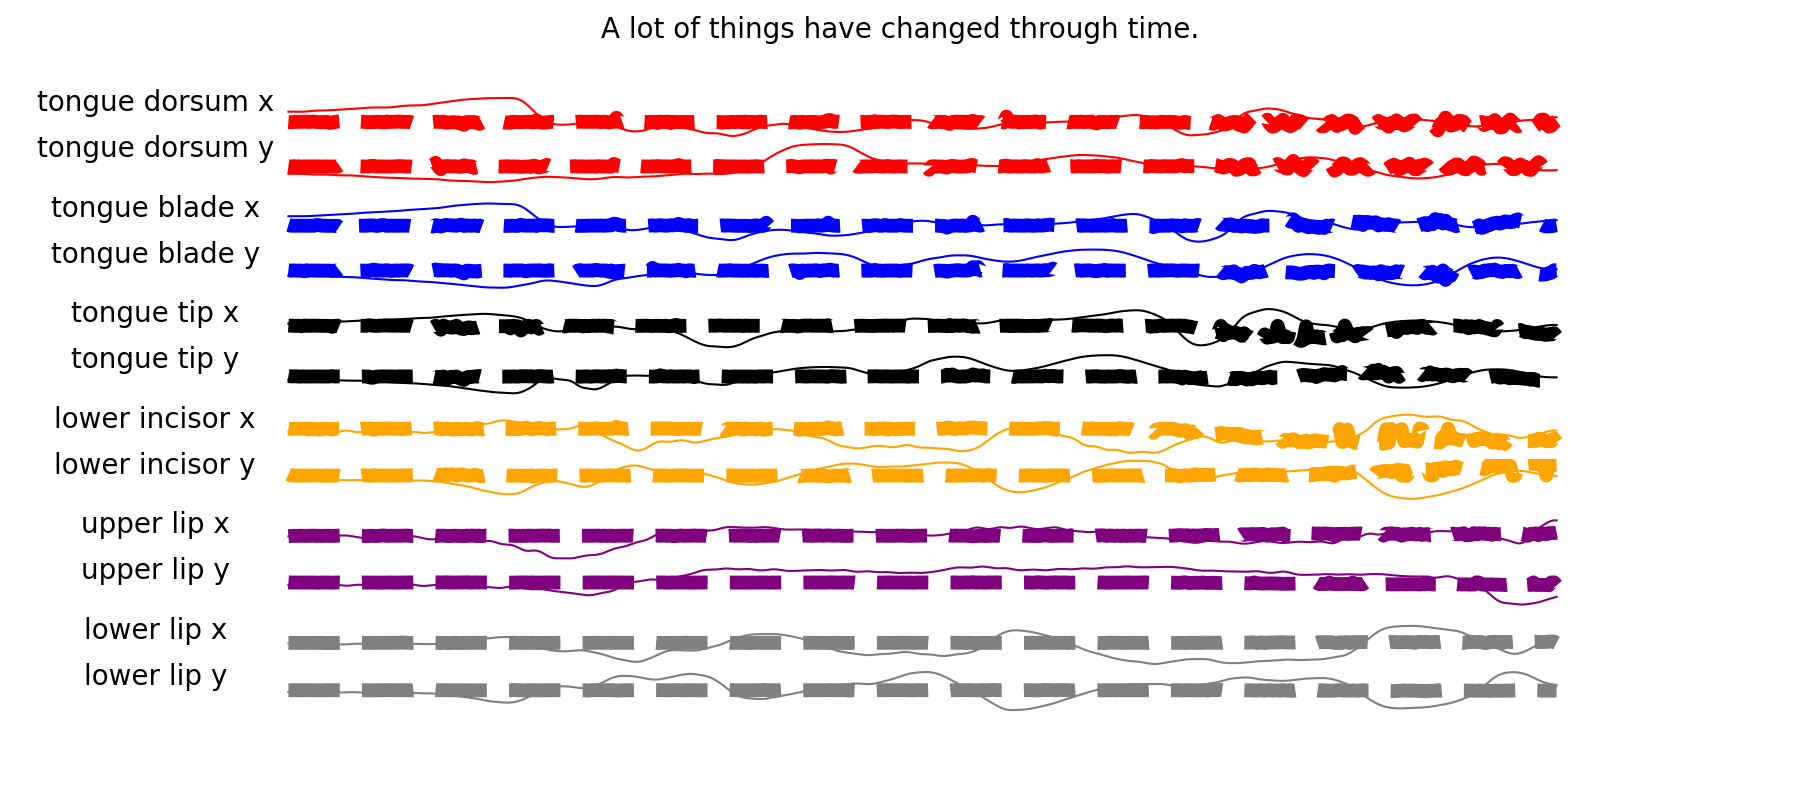
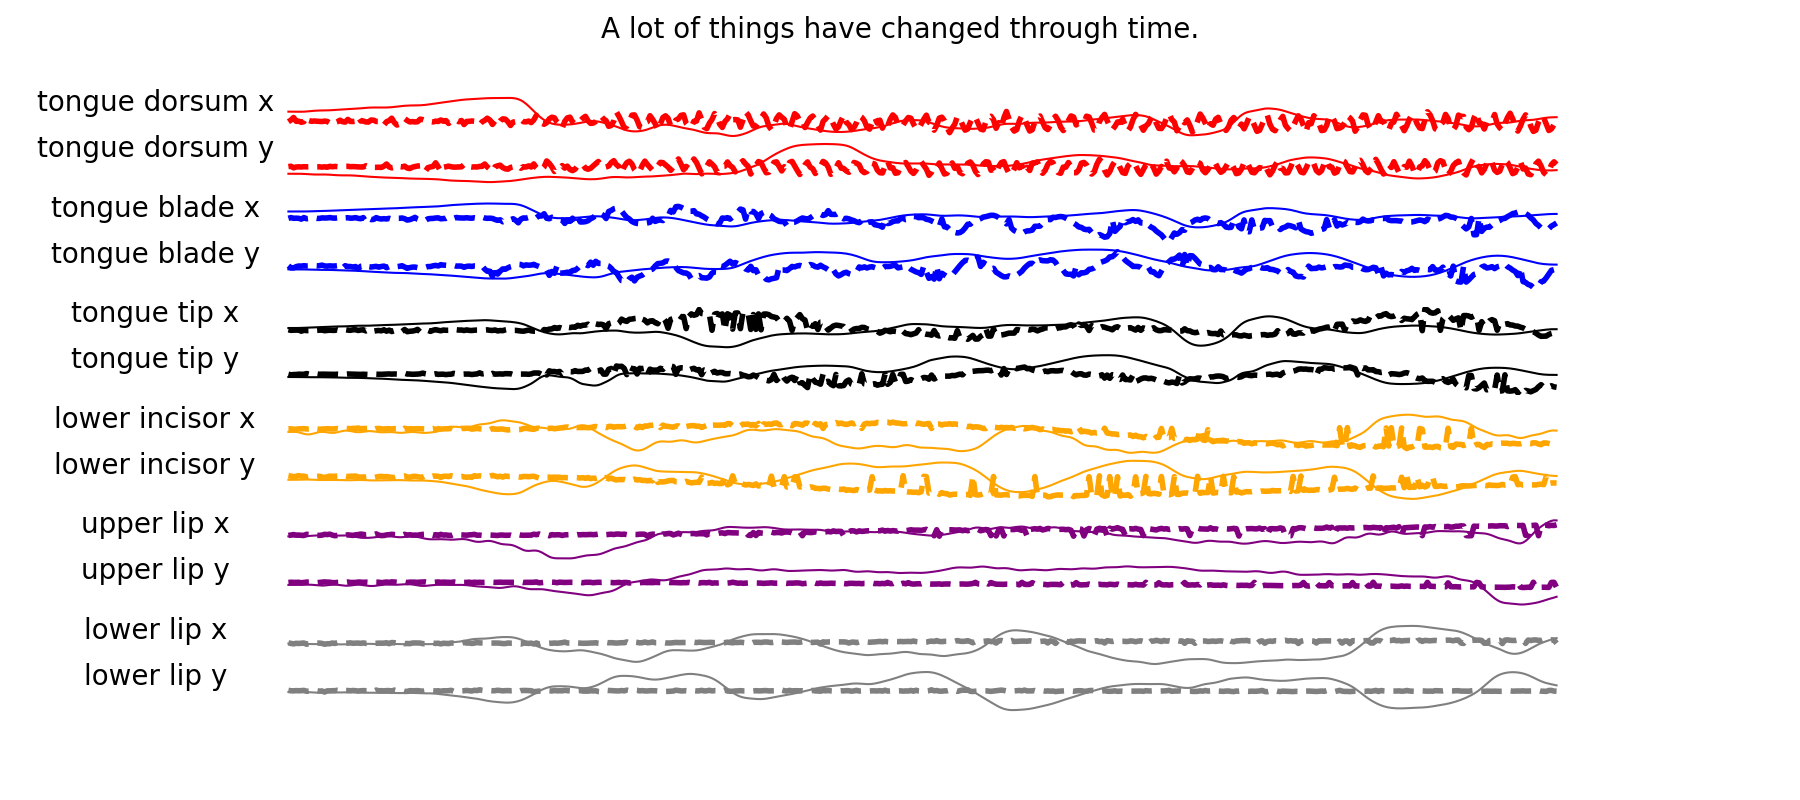
no down/up sampling is important for good reconstruction

diff --git a/src/models/ema_model.py b/src/models/ema_model.py
@@ -27,7 +27,7 @@ class Conv2dSubsampling(torch.nn.Module):
         super().__init__()
         self.conv = torch.nn.Sequential(
             torch.nn.Conv2d(1, odim, 3, 2),
-            torch.nn.ReLU(),
+            # torch.nn.ReLU(),
         )
         self.out = torch.nn.Sequential(
             torch.nn.Linear(odim * ((idim // 2 - 1)), odim),
@@ -68,7 +68,7 @@ class Conv2dUpsampling(torch.nn.Module):
         super().__init__()
         self.conv = torch.nn.Sequential(
             torch.nn.ConvTranspose2d(1, odim, 3, 2,0,1),
-            torch.nn.ReLU(),
+            # torch.nn.ReLU(),
         )
         self.out = torch.nn.Sequential(
             torch.nn.Linear(odim * ((idim - 1)*2+1+1+2), odim),
@@ -124,26 +124,30 @@ class EMA_Model(nn.Module):
         #shape of x is [B,A,T]
         time_steps = x.shape[2]
 
+
         x = x.permute(0, 2, 1)
-        z1 = self.conformer_encoder_layer1(x)  #out: [B,T,12]
-        z2 = self.conformer_encoder_layer2(z1) #out: [B,T,12]
-        z3, _ = self.subsampling_layer1(z2, None)       #out: [B,T//2,12]
+        z = self.conformer_encoder_layer1(x)  #out: [B,T,12]
+        z = self.conformer_encoder_layer2(z) #out: [B,T,12]
+        # z, _ = self.subsampling_layer1(z, None)       #out: [B,T//2,12]
 
-        z4 = self.conformer_encoder_layer3(z3) #out: [B,T//2,12]
-        z5, _ = self.subsampling_layer1(z4, None)       #out: [B,T//4,12]
+        z = self.conformer_encoder_layer3(z) #out: [B,T//2,12]
+        # z, _ = self.subsampling_layer1(z, None)       #out: [B,T//4,12]
 
-        z6 = self.conformer_decoder_layer1(z5) #out: [B, T//4, 12]
-        z7,_ = self.upsampling_layer1(z6, None)        #out: [B, T//2, 12]
+        z = self.conformer_decoder_layer1(z) #out: [B, T//4, 12]
+        # z,_ = self.upsampling_layer1(z, None)        #out: [B, T//2, 12]
 
-        z8 = self.conformer_decoder_layer2(z7) #out: [B, T//2, 12]
-        z9,_ = self.upsampling_layer2(z8, None)        #out: [B, T, 12]
+        z = self.conformer_decoder_layer2(z) #out: [B, T//2, 12]
+        # z,_ = self.upsampling_layer2(z, None)        #out: [B, T, 12]
 
-        z10 = self.conformer_decoder_layer3(z9)#out: [B, T, 12]
+        z = self.conformer_decoder_layer3(z)#out: [B, T, 12]
 
-        inp_hat = z10
+        inp_hat = z
 
 
         inp_hat = inp_hat[:, :time_steps, :]
+
+        # print(f"max of ema inp is {torch.max(x)}, min of ema inp is {torch.min(x)}")
+        # print(f"max of ema hat is {torch.max(inp_hat)}, min of ema hat is {torch.min(inp_hat)}")
         return x, inp_hat
 
     def loadParameters(self, path):

diff --git a/src/utils.py b/src/utils.py
@@ -310,9 +310,10 @@ def vis_kinematics_ema(model, **args):
 
     ema_ori, ema_hat = model(ema_data, None)
 
+
     ema_data_hat = ema_hat.cpu().detach().numpy()
 
-    draw_kinematics_ema(ema_data.cpu(), ema_data_hat, mode='kinematics', title=ema_id+'ori_rec', **args) 
+    draw_kinematics_ema(ema_ori.cpu(), ema_data_hat, mode='kinematics', title=ema_id+'ori_rec', **args) 
     
 def vis_kinematics_rtMRI(model, **args):
     ######################################
@@ -370,16 +371,11 @@ def draw_kinematics_ema(ema_data, ema_data_hat, mode, title, **args):
     
 
     ema_data = ema_data.squeeze(0)
-    if mode == 'kinematics':
-        ema_data_hat = ema_data_hat.squeeze(0)
+    ema_data_hat = ema_data_hat.squeeze(0)
     
     ema_id, wav_data, mel_data, text_trans = ema2info(**args)
     
-    ema_data = ema_data.T
-    #ema_data_hat = ema_data_hat.T
-    
-    print(ema_data.shape)
-    print(ema_data_hat.shape)
+    print(f"ema data shape is {ema_data.shape}, ema data hat shape is {ema_data_hat.shape}")
     
     x = np.arange(ema_data.shape[0])
 
@@ -393,11 +389,8 @@ def draw_kinematics_ema(ema_data, ema_data_hat, mode, title, **args):
         inner = gridspec.GridSpecFromSubplotSpec(2, 1, subplot_spec=outer[i], wspace=0.1, hspace=0.1)
         for j in range(2):
             ax = plt.Subplot(fig, inner[j])
-            _data = ema_data[:,i*2+j] #shape is (win_size,)
-            ax.plot(x, _data,c=colors[i], label='ori')
-            #ax.plot(x, _data,c=colors[i], label='ori', linewidth=10)
-            if mode == 'kinematics':
-                ax.plot(x, ema_data_hat[:,i*2+j],c=colors[i], label='rec', linestyle='dashed', linewidth=10)
+            ax.plot(x, ema_data[:,i*2+j],c=colors[i], label='ori')
+            ax.plot(x, ema_data_hat[:,i*2+j],c=colors[i], label='rec', linestyle='dashed', linewidth=4)
             ax.set_xticks([])
             ax.set_yticks([])
             fig.add_subplot(ax)

diff --git a/src/main.py b/src/main.py
@@ -125,8 +125,8 @@ if __name__ == "__main__":
         exit()
     #optimizer = torch.optim.SGD(model.parameters(), lr=0.001, weight_decay=5e-5, momentum=0.9)
     optimizer = torch.optim.Adam(model.parameters(), lr=args.learning_rate, weight_decay=args.weight_decay)
-    lr_scheduler = torch.optim.lr_scheduler.StepLR(optimizer=optimizer, step_size=5, gamma=0.9)
-    #lr_scheduler = torch.optim.lr_scheduler.ReduceLROnPlateau(optimizer, mode='min', factor=args.lr_decay_rate, patience=10, threshold=0.0001)
+    # lr_scheduler = torch.optim.lr_scheduler.StepLR(optimizer=optimizer, step_size=5, gamma=0.9)
+    lr_scheduler = torch.optim.lr_scheduler.ReduceLROnPlateau(optimizer, mode='min', factor=args.lr_decay_rate, patience=10, threshold=0.0001)
 
     if args.resynthesis:
         if args.dataset == 'ema':

diff --git a/src/trainer.py b/src/trainer.py
@@ -191,10 +191,8 @@ def trainer_resynthesis_ema(model, optimizer, lr_scheduler, ema_dataloader_train
                 
             loss = args['rec_factor']*rec_loss
 
-
             loss.backward()
             torch.nn.utils.clip_grad_norm_(model.parameters(), 100)
-            #print(model.vq_model._embedding.weight)
             optimizer.step()
 
             sys.stdout.write(" rec_loss=%.4f, sparsity_c=%.4f, sparsity_t=%.4f, entropy_t=%.4f, entropy_c=%.4f" %(rec_loss.item(), 0, 0, 0, 0))
